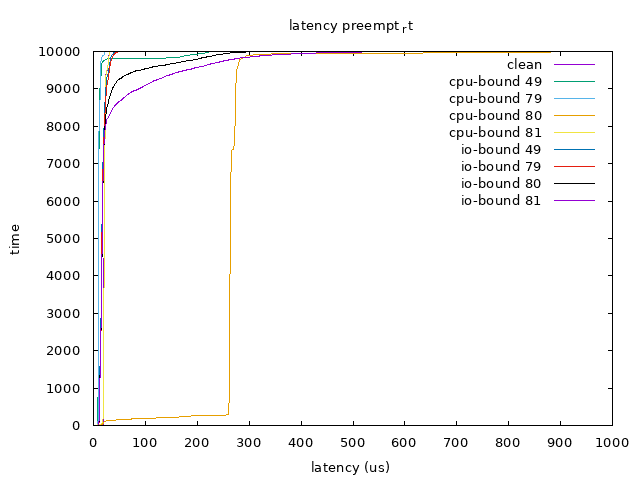
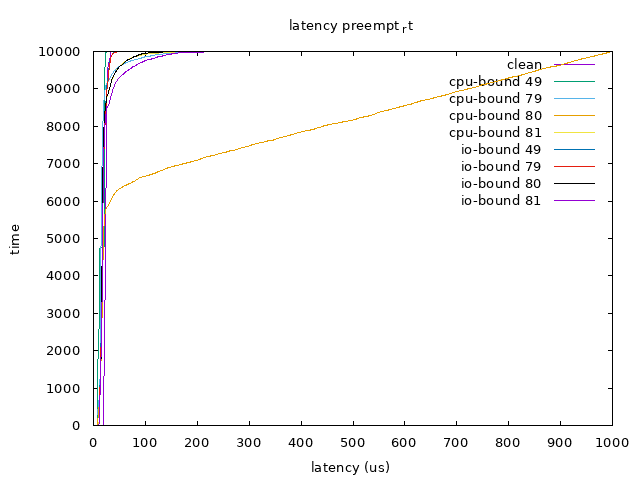
loop 10 times more

Changed region(s): [[0.125, 0.0938, 0.4688, 0.8125], [0.5, 0.0938, 0.5625, 0.125]]

diff --git a/general_vs_preempt_rt/super_run.c b/general_vs_preempt_rt/super_run.c
@@ -9,7 +9,7 @@
 #define MY_PRIORITY (80)
 #define MAX_SAFE_STACK (8*1024)
 #define NSEC_PER_SEC (1000000000)
-#define LOOP_TIME (10000)
+#define LOOP_TIME (100000)
 #define INTERVAL (1000000)
 
 void test_work(void *test_data);

diff --git a/general_vs_preempt_rt/run.c b/general_vs_preempt_rt/run.c
@@ -8,7 +8,7 @@
 #define MY_PRIORITY (80)
 #define MAX_SAFE_STACK (8*1024)
 #define NSEC_PER_SEC (1000000000)
-#define LOOP_TIME (10000)
+#define LOOP_TIME (100000)
 #define INTERVAL (1000000)
 
 int ctr_err = 0;
